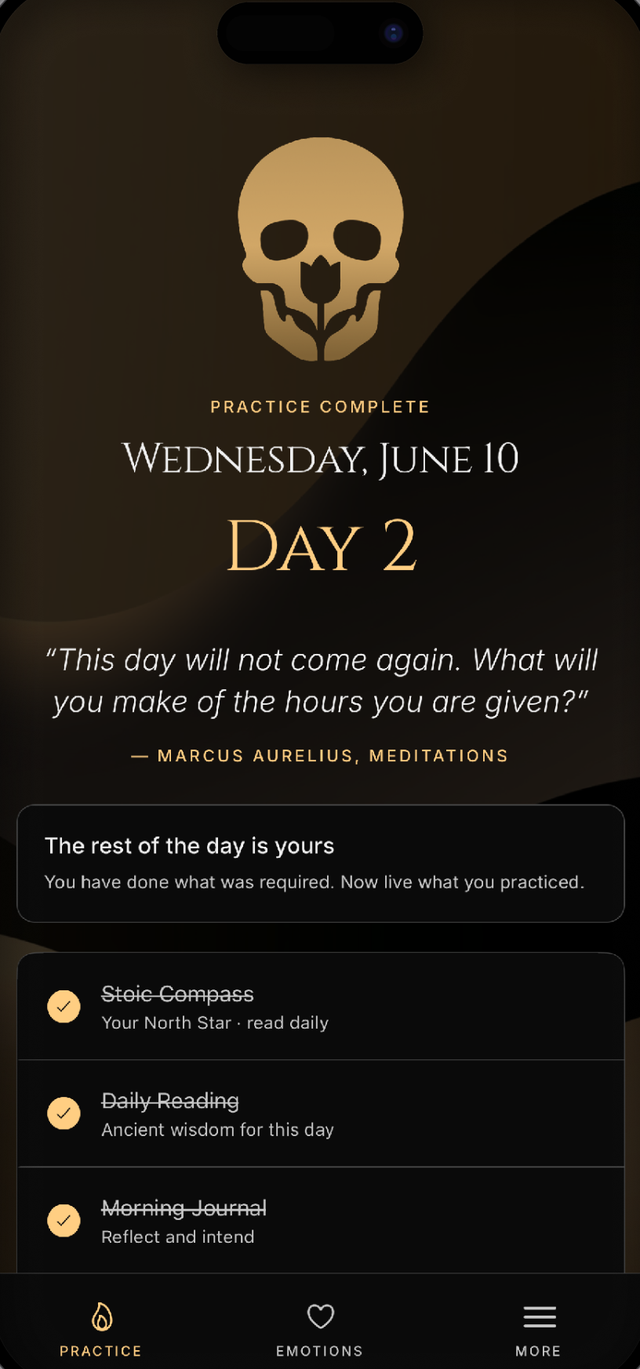
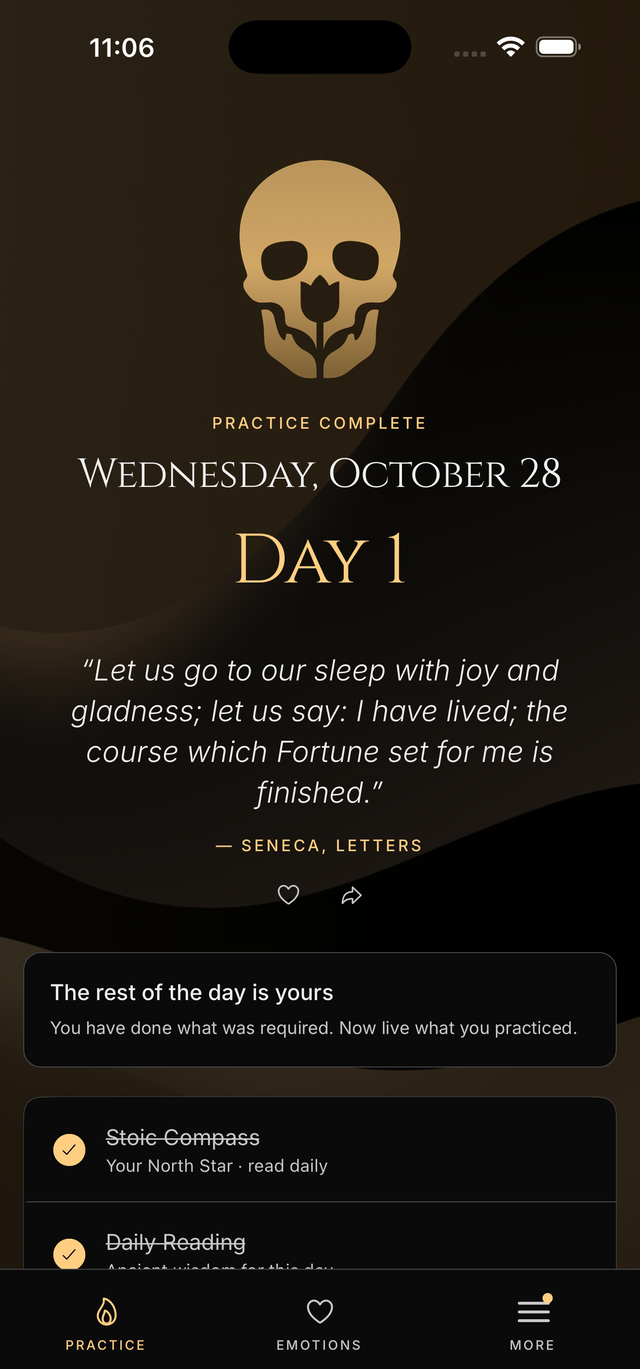
Homepage: a 'Practice complete' screenshot with a real, verbatim quote
The old screenshot showed 'This day will not come again', one of the 55 false
attributions removed in August, on the homepage of a site about checking
quotes. Retaken from the current app in the simulator. Its seal passage,
Seneca Letters 12.9, was a blend of translations; it now reads exactly as
Gummere's (Wikisource), in the app and in the image.

diff --git a/constants/quotes.js b/constants/quotes.js
@@ -222,7 +222,7 @@ export const mementoMoriQuotes = [
   { text: "Death is not an evil. What is it then? The one law mankind has that is free of all discrimination.", author: "Seneca", source: "Letters" },
   { text: "Perfecting yourself is the foundation of perfecting everything else.", author: "Epictetus", source: "Discourses" },
   { text: "Ask yourself at day's end: What did I do well? What did I do badly? What did I leave undone? Walk through each in turn.", author: "Epictetus", source: "Discourses" },
-  { text: "Let us go to our sleep with joy and gladness; let us say, I have lived, and have run the course that Fortune set for me.", author: "Seneca", source: "Letters", ref: "Letters 12.9" },
+  { text: "Let us go to our sleep with joy and gladness; let us say: I have lived; the course which Fortune set for me is finished.", author: "Seneca", source: "Letters", ref: "Letters 12.9" },
   { text: "Reflect often upon the rapidity with which all existing things pass away and are carried out of sight.", author: "Marcus Aurelius", source: "Meditations", ref: "Meditations V.23" },
   { text: "Hold every hour in your grasp. Lay hold of today, and you will depend less upon tomorrow.", author: "Seneca", source: "Letters", ref: "Letters 1.2" },
   { text: "Today I escaped anxiety. Or no, I discarded it, because it was within me.", author: "Marcus Aurelius", source: "Meditations", ref: "Meditations IX.13" },
